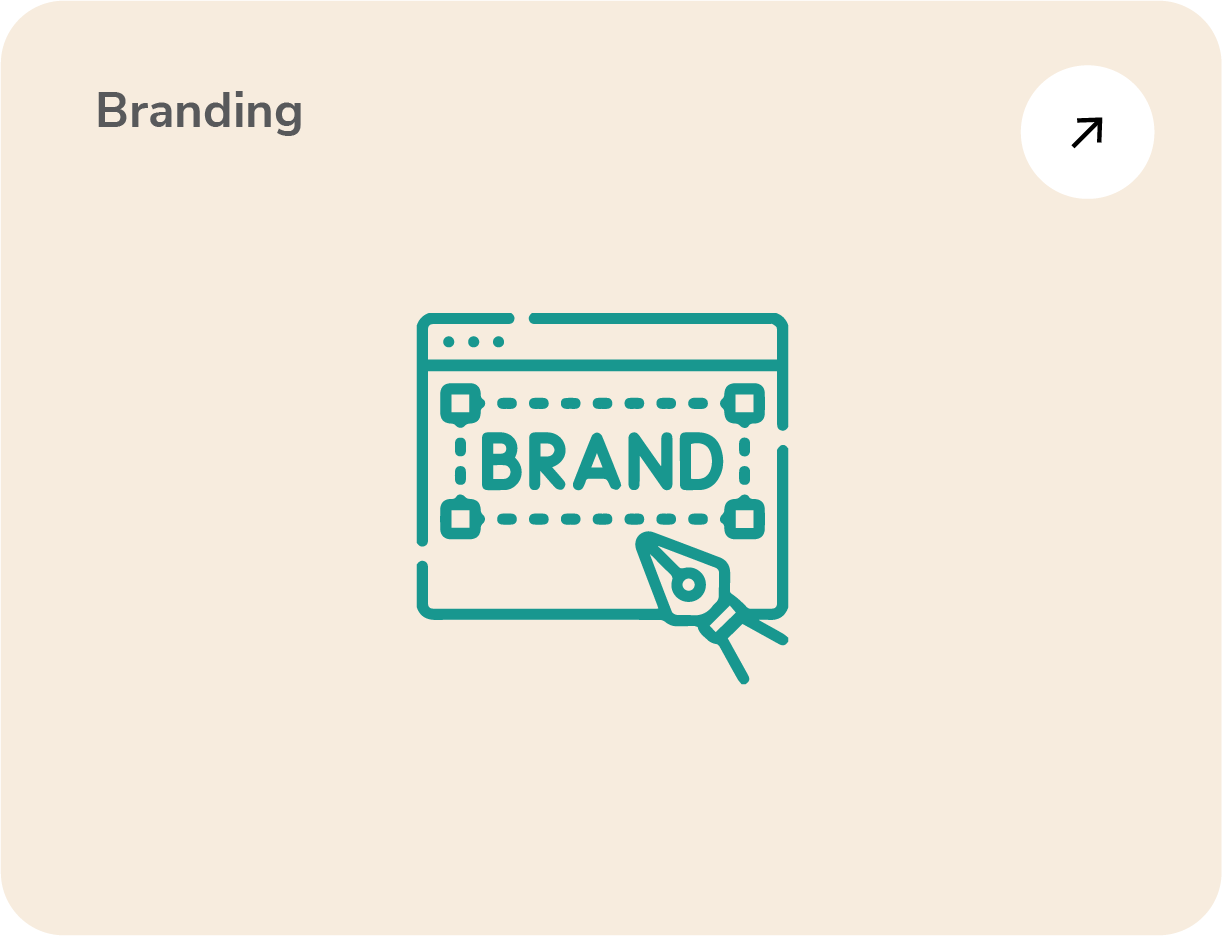
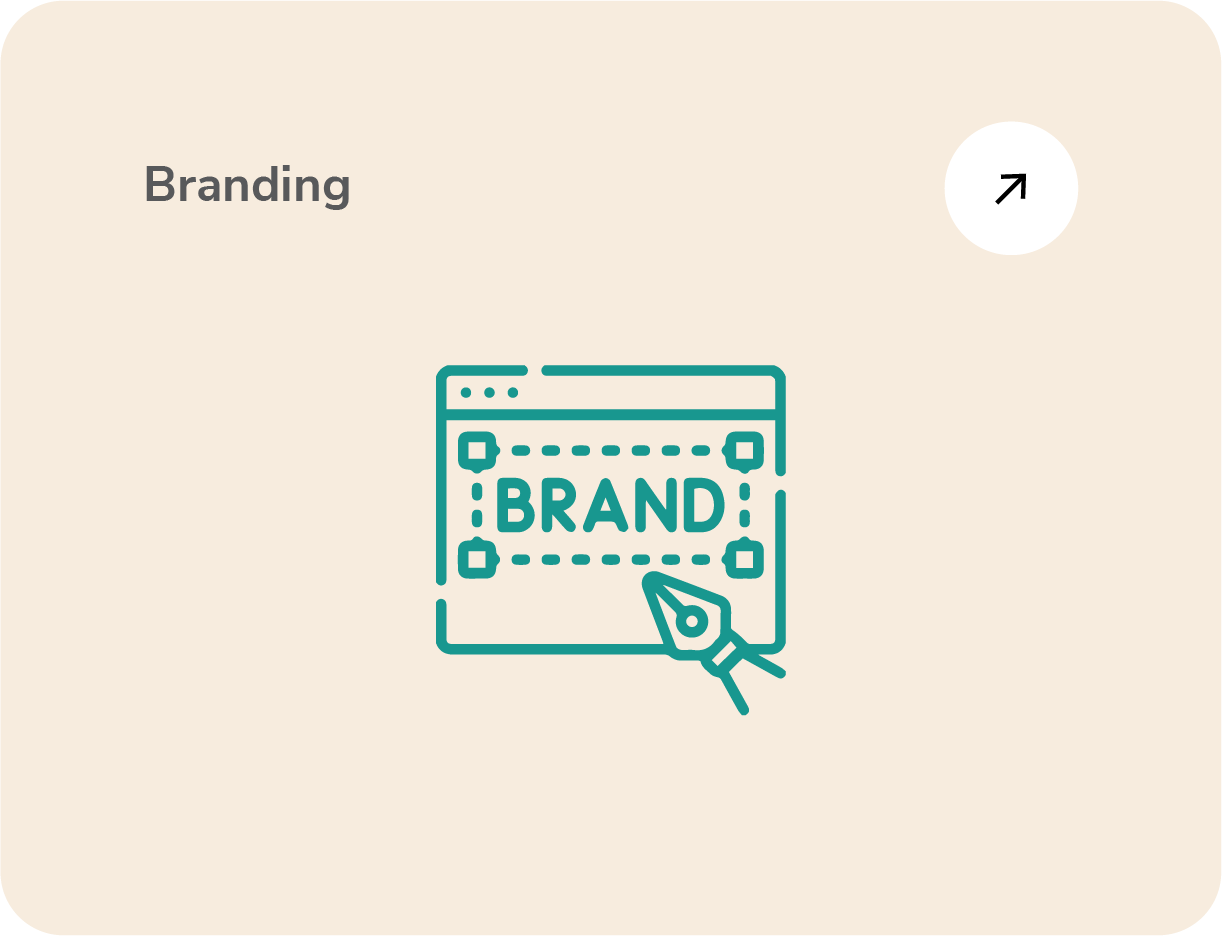
added zoom hover on cards

Changed region(s): [[0.3421, 0.3098, 0.653, 0.7746], [0.7463, 0.062, 0.964, 0.2788], [0.0622, 0.0929, 0.311, 0.2169]]

diff --git a/index.html b/index.html
@@ -10,7 +10,7 @@
     <link href="https://fonts.googleapis.com/css2?family=Nunito+Sans:wght@500&family=Nunito:wght@200&display=swap" rel="stylesheet">
     <link href="https://cdn.jsdelivr.net/npm/bootstrap@5.3.0-alpha3/dist/css/bootstrap.min.css" rel="stylesheet" integrity="sha384-KK94CHFLLe+nY2dmCWGMq91rCGa5gtU4mk92HdvYe+M/SXH301p5ILy+dN9+nJOZ" crossorigin="anonymous">
     <link rel="stylesheet" href="https://maxcdn.bootstrapcdn.com/bootstrap/4.0.0/css/bootstrap.min.css" integrity="sha384-Gn5384xqQ1aoWXA+058RXPxPg6fy4IWvTNh0E263XmFcJlSAwiGgFAW/dAiS6JXm" crossorigin="anonymous">
-    <!--<link rel="stylesheet" type="text/css" href="css/style.css" /> -->
+    <link rel="stylesheet" type="text/css" href="css/style.css" />
     <title>Karla Degrano B5 Portfolio</title>
 </head>
 <body style="background-color: #FFFFFF;">
@@ -66,16 +66,16 @@
 
         <div class="row">
             <div class="col-sm-6">
-                <div class="card" style="border-width: 0px;">
+                <div class="card-img-wrap" style="border-width: 0px;">
                     <a href="./folio/branding.html">
-                    <img src="./images/main images/brand-icon.png" class="card-img-top" alt="Karla Sebandal"> 
+                    <img src="./images/main images/brand-icon.png" class="card-img" alt="Karla Sebandal"> 
                     </a>
                 </div>
             </div>
             <div class="col-sm-6 mb-3">
-                <div class="card" style="border-width: 0px;">
+                <div class="card-img-wrap" style="border-width: 0px;">
                     <a href="./folio/digital-designs.html">
-                    <img src="./images/main images/digital-icon.png" class="card-img-top" alt="Karla Sebandal"> 
+                    <img src="./images/main images/digital-icon.png" class="card-img" alt="Karla Sebandal"> 
                     </a>
                 </div>
             </div>
@@ -83,16 +83,16 @@
 
         <div class="row">
             <div class="col-sm-6">
-                <div class="card" style="border-width: 0px;">
+                <div class="card-img-wrap" style="border-width: 0px;">
                     <a href="./folio/print-designs.html">
-                    <img src="./images/main images/print-icon.png" class="card-img-top img-hover" alt="Karla Sebandal"> 
+                    <img src="./images/main images/print-icon.png" class="card-img" alt="Karla Sebandal"> 
                     </a>
                 </div>
             </div>
             <div class="col-sm-6 mb-3">
-                <div class="card" style="border-width: 0px;">
+                <div class="card-img-wrap" style="border-width: 0px;">
                     <a href="./folio/web-dev.html">
-                    <img src="./images/main images/web-dev.png" class="card-img-top" alt="Karla Sebandal"> 
+                    <img src="./images/main images/web-dev.png" class="card-img" alt="Karla Sebandal"> 
                     </a>
                 </div>
             </div>
@@ -103,9 +103,9 @@
                 <div class="card" style="border-width: 0px;">
                     <img src="./images/main images/contact.png" class="card-img-top" alt="Karla Sebandal"> 
                     <div class="card-img-overlay m-3">
-                        <h3 class="card-title">Want to work together?</h5>
-                        <p class="card-text">Feel free to reach out for collaborations or just a friendly hello.</p>
-                        <a href="#" class="btn btn-light float-lg-left">Contact Me</a>
+                        <h1 class="card-title">As of now, I am decluttering <br/>some of my pre-loved stuff.</h5>
+                        <p class="card-text">Feel free to check the available items.</p>
+                        <a href="#" class="btn btn-light float-lg-left">See Items</a>
                     </div>
                 </div>
             </div>

diff --git a/css/style.css b/css/style.css
@@ -1,9 +1,22 @@
-.img-hover img:hover {
-    -webkit-backface-visibility: hidden;
-    backface-visibility: hidden;
-    -webkit-transform:translateZ(0) scale(1.20); /* Safari and Chrome */
-    -moz-transform:scale(1.20); /* Firefox */
-    -ms-transform:scale(1.20); /* IE 9 */
-    -o-transform:translatZ(0) scale(1.20); /* Opera */
-    transform:translatZ(0) scale(1.20);
-}
+.card-img-wrap {
+    overflow: hidden;
+    position: relative;
+  }
+  .card-img-wrap:after {
+    content: '';
+    position: absolute;
+    top: 0; left: 0; right: 0; bottom: 0;
+    background: rgba(255,255,255,0.3);
+    opacity: 0;
+    transition: opacity .25s;
+  }
+  .card-img-wrap img {
+    transition: transform .25s;
+    width: 100%;
+  }
+  .card-img-wrap:hover img {
+    transform: scale(1.2);
+  }
+  .card-img-wrap:hover:after {
+    opacity: 1;
+  }
